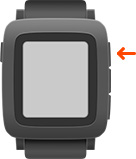
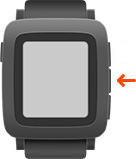
fix(Prod): Fixing some typos for production

Changed region(s): [[0.8529, 0.4528, 1.0, 0.5535], [0.8529, 0.2767, 1.0, 0.3774]]

diff --git a/index.html b/index.html
@@ -2,7 +2,7 @@
 <html>
 <head>
 	<meta charset="UTF-8" />
-	<title>Pixeble</title>
+	<title>Pixebble</title>
 	<link href='https://fonts.googleapis.com/css?family=Open+Sans:400,300,600,700' rel='stylesheet' type='text/css'>
 	<link rel="stylesheet" type="text/css" href="client/assets/css/style.css">
 	<script src="client/lib/zepto.min.js"></script>

diff --git a/config/index.html b/config/index.html
@@ -22,7 +22,7 @@
       <input type="button"  value="SEND" id="submit_button">
 </div>
 
-
+<footer>Crafted with <strong style="color:red"><3</strong> by <a href="http://twitter.com/marcteyssier">@marcteyssier</a>.</footer>
   <script>
   function getConfigData() {
     //var userName = document.getElementById('userName');

diff --git a/client/assets/css/style.css b/client/assets/css/style.css
@@ -641,9 +641,10 @@ button.new-id:focus {
 	margin-right: 3%;
 }
 .help .tip img{
-    position: absolute;
-    right: 10px;
-    top: -28px;
+	position: absolute;
+	right: 10px;
+	top: -10px;
+	width: 60px;
 }
 
 .help .tip:nth-child(1){ -webkit-animation-delay: .3s }

diff --git a/client/pixebble.js b/client/pixebble.js
@@ -27,6 +27,9 @@ var Pixebble = {
 		});
 		ImagesUpload.init();
 		Help.init(".corner-info");
+
+		//TipManager.createTip({type:"success",icon:":)",text:"It's your first visit, welcome. You can find some help on the top right corner !", delay:15000});
+
 	},
 
 };

diff --git a/config/assets/css/style.css b/config/assets/css/style.css
@@ -200,3 +200,9 @@ p.user-id-container-error-text.active {
     opacity: 1;
 }
 
+footer {
+	position: absolute;
+	bottom:10px;
+	text-align: center;
+	width: 100%;
+}
